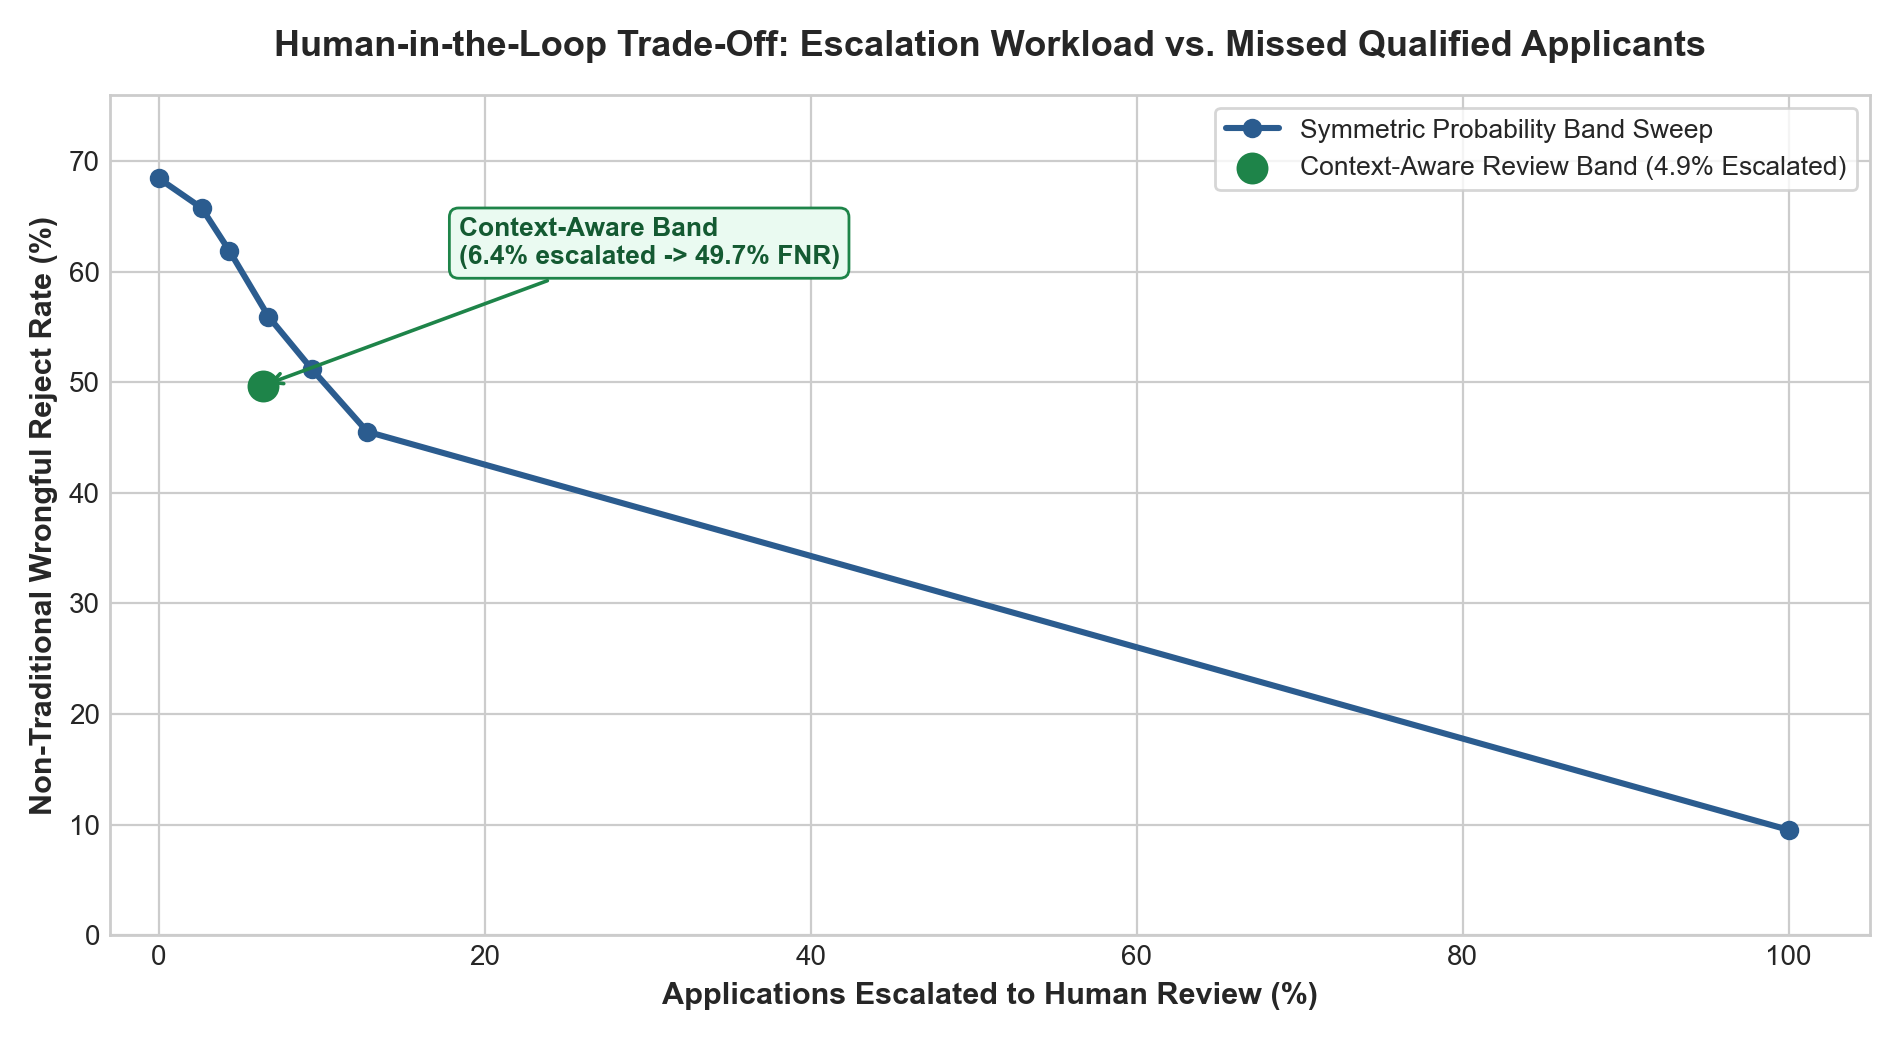
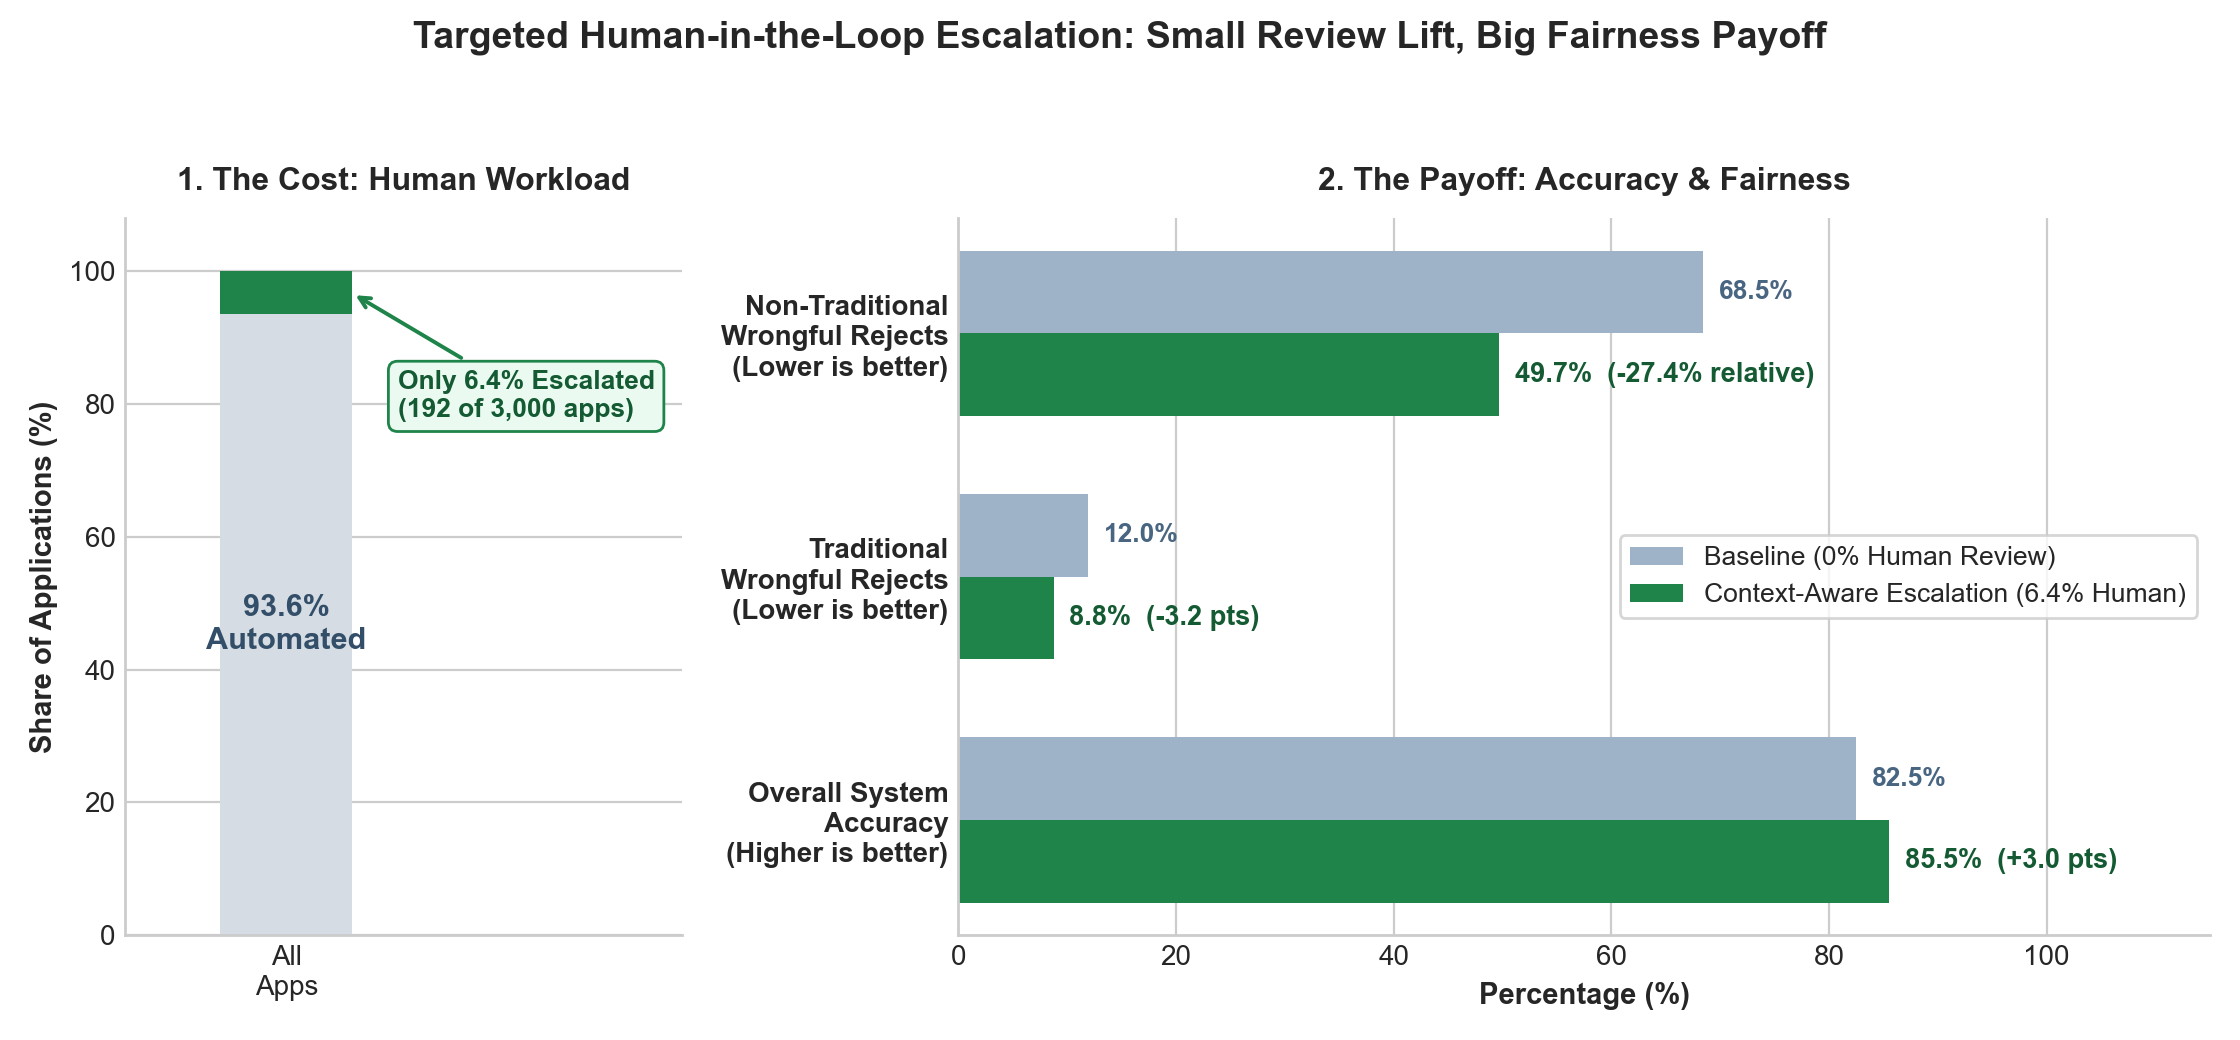
style: redesign chart 2 as 2-panel cost-vs-payoff and fix dynamic labels

diff --git a/src/make_charts.py b/src/make_charts.py
@@ -2,14 +2,22 @@
 Session 4: Generate Publication-Ready Charts for README & LinkedIn Post
 Reads outputs/audited_applicants.csv and outputs/escalation_tradeoff.csv
 to produce:
-  1. outputs/chart1_aggregate_vs_subgroup.png
-  2. outputs/chart2_escalation_tradeoff.png
+1. outputs/chart1_aggregate_vs_subgroup.png
+2. outputs/chart2_escalation_tradeoff.png
 """
 
 from pathlib import Path
 import matplotlib.pyplot as plt
 import numpy as np
 import pandas as pd
+
+
+def _set_style() -> None:
+    plt.style.use(
+        "seaborn-v0_8-whitegrid"
+        if "seaborn-v0_8-whitegrid" in plt.style.available
+        else "seaborn-whitegrid"
+    )
 
 
 def make_chart1(audited_df: pd.DataFrame, tradeoff_df: pd.DataFrame, out_path: Path) -> None:
@@ -33,11 +41,11 @@ def make_chart1(audited_df: pd.DataFrame, tradeoff_df: pd.DataFrame, out_path: P
     ]
     colors = ["#2b5c8f", "#5c768d", "#c0392b", "#1e8449"]
 
-    plt.style.use("seaborn-v0_8-whitegrid" if "seaborn-v0_8-whitegrid" in plt.style.available else "seaborn-whitegrid")
-    fig, ax = plt.subplots(figsize=(9.5, 5.2), dpi=200)
+    _set_style()
+    fig, ax = plt.subplots(figsize=(9.5, 5.4), dpi=200)
 
     bars = ax.bar(labels, values, color=colors, width=0.52, edgecolor="none")
-    ax.set_ylim(0, 102)
+    ax.set_ylim(0, 105)
     ax.set_ylabel("Percentage (%)", fontsize=11, fontweight="bold")
     ax.set_title(
         "The Illusion of Aggregate Accuracy: Subgroup Blind Spots & Escalation Impact",
@@ -47,26 +55,28 @@ def make_chart1(audited_df: pd.DataFrame, tradeoff_df: pd.DataFrame, out_path: P
     )
     ax.tick_params(axis="x", labelsize=10)
     ax.tick_params(axis="y", labelsize=10)
+    ax.spines["top"].set_visible(False)
+    ax.spines["right"].set_visible(False)
 
     for bar, val in zip(bars, values):
         ax.text(
             bar.get_x() + bar.get_width() / 2,
-            val + 2.2,
+            val + 2.0,
             f"{val:.1f}%",
             ha="center",
             va="bottom",
-            fontsize=10.5,
+            fontsize=11,
             fontweight="bold",
             color="#1f2933",
         )
 
     ax.annotate(
-        "High headline accuracy masks\n67.8% missed qualified\nnon-traditional candidates",
-        xy=(2, values[2]),
-        xytext=(1.55, 81),
-        arrowprops=dict(arrowstyle="->", color="#7f8c8d", lw=1.2),
+        f"{overall_acc:.1f}% headline accuracy masks\n{values[2]:.1f}% missed qualified\nnon-traditional candidates",
+        xy=(2, values[2] + 6),
+        xytext=(1.15, 83),
+        arrowprops=dict(arrowstyle="->", color="#7f8c8d", lw=1.3),
         fontsize=9.5,
-        bbox=dict(boxstyle="round,pad=0.35", facecolor="#fdf2e9", edgecolor="#e67e22", lw=1),
+        bbox=dict(boxstyle="round,pad=0.4", facecolor="#fdf2e9", edgecolor="#e67e22", lw=1),
     )
 
     fig.tight_layout()
@@ -74,60 +84,144 @@ def make_chart1(audited_df: pd.DataFrame, tradeoff_df: pd.DataFrame, out_path: P
     plt.close(fig)
 
 
-def make_chart2(tradeoff_df: pd.DataFrame, out_path: Path) -> None:
-    """Plot human review workload (%) vs. non-traditional wrongful rejection rate."""
-    sweep_df = tradeoff_df[~tradeoff_df["policy"].str.startswith("Context-Aware Band")].copy()
-    sweep_df = sweep_df.sort_values("escalated_pct")
-
+def make_chart2(audited_df: pd.DataFrame, tradeoff_df: pd.DataFrame, out_path: Path) -> None:
+    """2-panel Cost vs. Payoff storytelling chart for Context-Aware Escalation."""
+    base_row = tradeoff_df[tradeoff_df["policy"] == "No Escalation (Baseline)"].iloc[0]
     ctx_row = tradeoff_df[tradeoff_df["policy"].str.startswith("Context-Aware Band")].iloc[0]
 
-    plt.style.use("seaborn-v0_8-whitegrid" if "seaborn-v0_8-whitegrid" in plt.style.available else "seaborn-whitegrid")
-    fig, ax = plt.subplots(figsize=(9.5, 5.2), dpi=200)
+    acc_col = next(
+        (c for c in ["overall_acc", "overall_accuracy", "accuracy"] if c in tradeoff_df.columns),
+        None,
+    )
+    base_acc = (
+        base_row[acc_col] * 100
+        if acc_col
+        else (audited_df["true_qualified"] == audited_df["pred_admit"]).mean() * 100
+    )
+    ctx_acc = ctx_row[acc_col] * 100 if acc_col else base_acc
 
-    ax.plot(
-        sweep_df["escalated_pct"] * 100,
-        sweep_df["nontrad_fnr"] * 100,
-        marker="o",
-        linewidth=2.2,
-        color="#2b5c8f",
-        label="Symmetric Probability Band Sweep",
+    n_total = len(audited_df)
+    esc_pct = ctx_row["escalated_pct"] * 100
+    auto_pct = 100.0 - esc_pct
+    esc_n = int(round(ctx_row["escalated_pct"] * n_total))
+
+    base_trad_fnr = base_row["trad_fnr"] * 100
+    ctx_trad_fnr = ctx_row["trad_fnr"] * 100
+    base_nontrad_fnr = base_row["nontrad_fnr"] * 100
+    ctx_nontrad_fnr = ctx_row["nontrad_fnr"] * 100
+    rel_drop = (base_nontrad_fnr - ctx_nontrad_fnr) / base_nontrad_fnr * 100
+
+    _set_style()
+    fig, (ax_cost, ax_payoff) = plt.subplots(
+        1, 2, figsize=(11.2, 5.2), dpi=200, gridspec_kw={"width_ratios": [1.0, 2.25]}
     )
 
-    # Highlight Context-Aware Band point
-    ctx_x = ctx_row["escalated_pct"] * 100
-    ctx_y = ctx_row["nontrad_fnr"] * 100
-    ax.scatter(
-        [ctx_x],
-        [ctx_y],
+    # --- LEFT PANEL: Operational Cost (Human Workload) ---
+    ax_cost.bar(["All\nApps"], [auto_pct], width=0.45, color="#d5dce4", label="Automated")
+    ax_cost.bar(
+        ["All\nApps"],
+        [esc_pct],
+        bottom=[auto_pct],
+        width=0.45,
         color="#1e8449",
-        s=110,
-        zorder=5,
-        label="Context-Aware Review Band (4.9% Escalated)",
+        label="Human Review",
     )
-    ax.annotate(
-        f"Context-Aware Band\n({ctx_x:.1f}% escalated -> {ctx_y:.1f}% FNR)",
-        xy=(ctx_x, ctx_y),
-        xytext=(ctx_x + 12, ctx_y + 11),
-        arrowprops=dict(arrowstyle="->", color="#1e8449", lw=1.3),
+    ax_cost.set_ylim(0, 108)
+    ax_cost.set_ylabel("Share of Applications (%)", fontsize=10.5, fontweight="bold")
+    ax_cost.set_title("1. The Cost: Human Workload", fontsize=11.5, fontweight="bold", pad=10)
+    ax_cost.spines["top"].set_visible(False)
+    ax_cost.spines["right"].set_visible(False)
+    ax_cost.grid(axis="x", visible=False)
+
+    ax_cost.text(
+        0,
+        auto_pct / 2,
+        f"{auto_pct:.1f}%\nAutomated",
+        ha="center",
+        va="center",
+        fontsize=11,
+        fontweight="bold",
+        color="#334e68",
+    )
+    ax_cost.annotate(
+        f"Only {esc_pct:.1f}% Escalated\n({esc_n:,} of {n_total:,} apps)",
+        xy=(0.22, auto_pct + esc_pct / 2),
+        xytext=(0.38, 78),
+        arrowprops=dict(arrowstyle="->", color="#1e8449", lw=1.4),
         fontsize=9.5,
         fontweight="bold",
         color="#145a32",
         bbox=dict(boxstyle="round,pad=0.35", facecolor="#eafaf1", edgecolor="#1e8449", lw=1),
     )
+    ax_cost.set_xlim(-0.55, 1.35)
 
-    ax.set_xlim(-3, 105)
-    ax.set_ylim(0, 76)
-    ax.set_xlabel("Applications Escalated to Human Review (%)", fontsize=11, fontweight="bold")
-    ax.set_ylabel("Non-Traditional Wrongful Reject Rate (%)", fontsize=11, fontweight="bold")
-    ax.set_title(
-        "Human-in-the-Loop Trade-Off: Escalation Workload vs. Missed Qualified Applicants",
-        fontsize=13,
-        fontweight="bold",
-        pad=14,
+    # --- RIGHT PANEL: Validation Payoff (Before vs. After) ---
+    metrics = [
+        "Overall System\nAccuracy\n(Higher is better)",
+        "Traditional\nWrongful Rejects\n(Lower is better)",
+        "Non-Traditional\nWrongful Rejects\n(Lower is better)",
+    ]
+    base_vals = [base_acc, base_trad_fnr, base_nontrad_fnr]
+    ctx_vals = [ctx_acc, ctx_trad_fnr, ctx_nontrad_fnr]
+    deltas = [
+        f"+{ctx_acc - base_acc:.1f} pts",
+        f"-{base_trad_fnr - ctx_trad_fnr:.1f} pts",
+        f"-{rel_drop:.1f}% relative",
+    ]
+
+    y = np.arange(len(metrics))
+    h = 0.34
+
+    bars_base = ax_payoff.barh(
+        y + h / 2, base_vals, height=h, color="#9fb3c8", label="Baseline (0% Human Review)"
     )
-    ax.legend(loc="upper right", frameon=True, fontsize=9.5)
+    bars_ctx = ax_payoff.barh(
+        y - h / 2,
+        ctx_vals,
+        height=h,
+        color="#1e8449",
+        label=f"Context-Aware Escalation ({esc_pct:.1f}% Human)",
+    )
 
-    fig.tight_layout()
+    ax_payoff.set_yticks(y)
+    ax_payoff.set_yticklabels(metrics, fontsize=10, fontweight="bold")
+    ax_payoff.set_xlim(0, 115)
+    ax_payoff.set_xlabel("Percentage (%)", fontsize=10.5, fontweight="bold")
+    ax_payoff.set_title("2. The Payoff: Accuracy & Fairness", fontsize=11.5, fontweight="bold", pad=10)
+    ax_payoff.spines["top"].set_visible(False)
+    ax_payoff.spines["right"].set_visible(False)
+    ax_payoff.grid(axis="y", visible=False)
+    ax_payoff.legend(loc="center right", frameon=True, fontsize=9.5)
+
+    for b_bar, c_bar, b_val, c_val, delta in zip(bars_base, bars_ctx, base_vals, ctx_vals, deltas):
+        ax_payoff.text(
+            b_val + 1.4,
+            b_bar.get_y() + b_bar.get_height() / 2,
+            f"{b_val:.1f}%",
+            va="center",
+            ha="left",
+            fontsize=9.5,
+            color="#486581",
+            fontweight="bold",
+        )
+        ax_payoff.text(
+            c_val + 1.4,
+            c_bar.get_y() + c_bar.get_height() / 2,
+            f"{c_val:.1f}%  ({delta})",
+            va="center",
+            ha="left",
+            fontsize=9.8,
+            color="#145a32",
+            fontweight="bold",
+        )
+
+    fig.suptitle(
+        "Targeted Human-in-the-Loop Escalation: Small Review Lift, Big Fairness Payoff",
+        fontsize=13.5,
+        fontweight="bold",
+        y=0.98,
+    )
+    fig.tight_layout(rect=[0, 0, 1, 0.93])
     fig.savefig(out_path, dpi=200)
     plt.close(fig)
 
@@ -151,7 +245,7 @@ def main() -> None:
     c2_path = out_dir / "chart2_escalation_tradeoff.png"
 
     make_chart1(audited_df, tradeoff_df, c1_path)
-    make_chart2(tradeoff_df, c2_path)
+    make_chart2(audited_df, tradeoff_df, c2_path)
     print(f"Saved charts to:\n  - {c1_path}\n  - {c2_path}")
 
 
